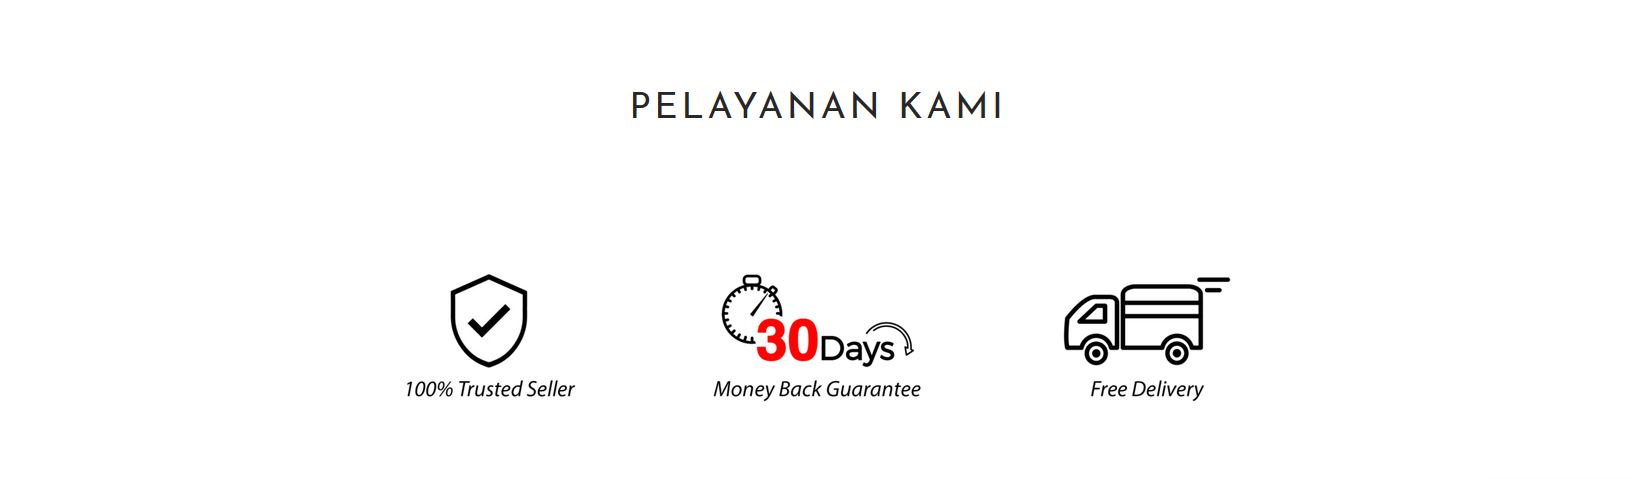
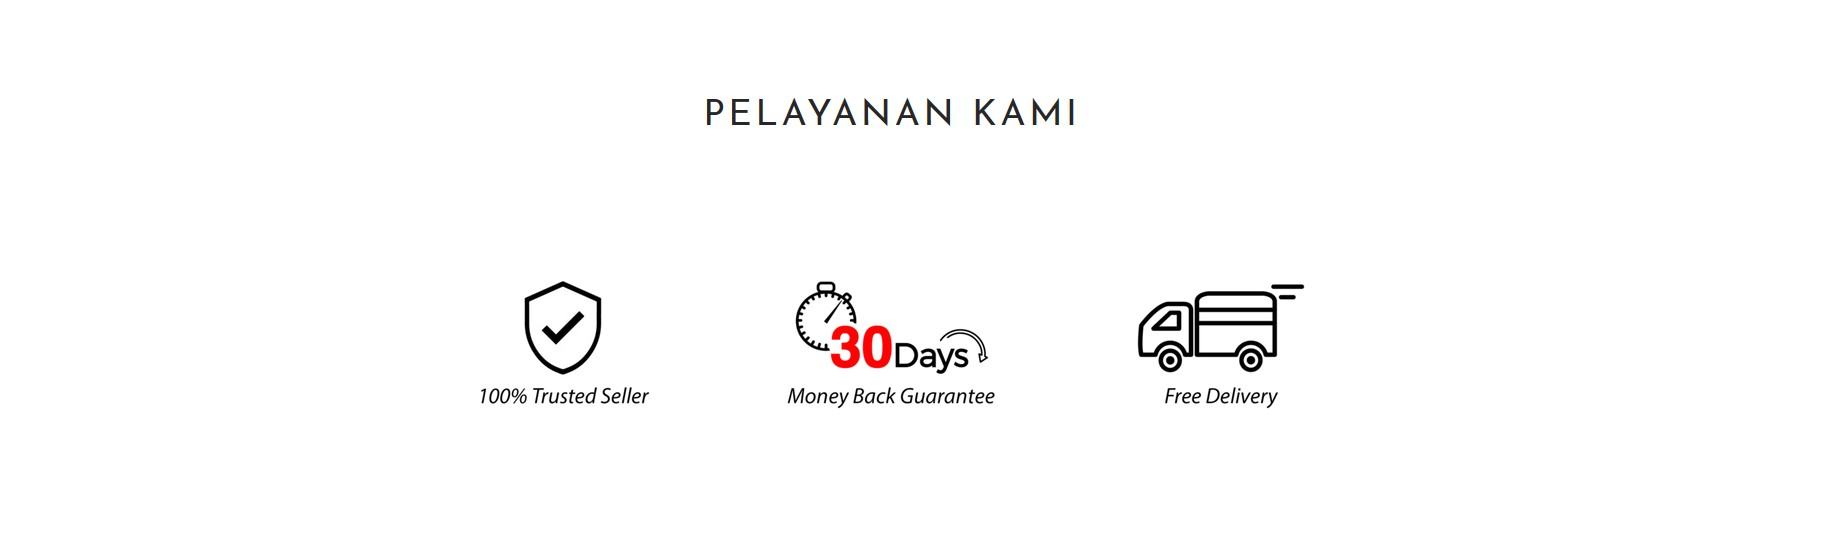
Penggantian gambar

diff --git a/index.html b/index.html
@@ -118,7 +118,7 @@
     <!-- Akhir Card  -->
 
     <!-- service -->
-      <img src="img/Avenger.jpg" class="img-fluid">
+      <img src="img/service.jpg" class="img-fluid">
     <!-- Form -->
     <form class="container bg-light">
       <div class="form-group">
